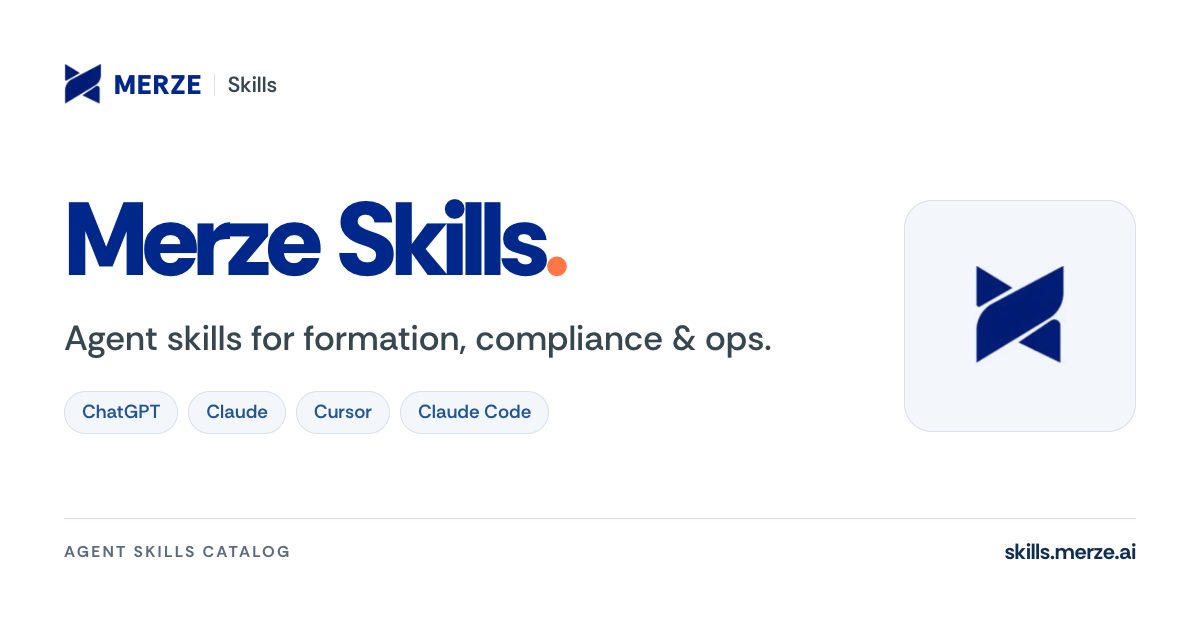
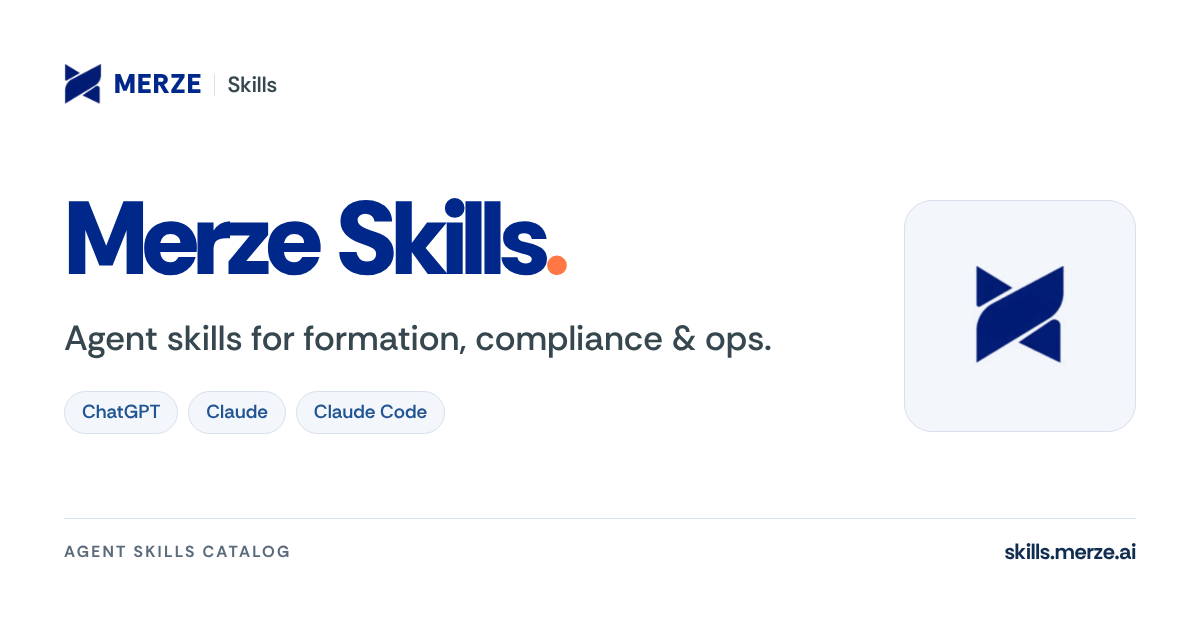
chore(site): remove Cursor from the public catalog
Drop Cursor from the home agent chips, the footer, the About agent list,
and the social card, and re-render the committed 1200x630 card. Internal
docs and the .cursor verify tooling are unchanged.

diff --git a/site/assets/social/merze-skills-v1.html b/site/assets/social/merze-skills-v1.html
@@ -254,7 +254,6 @@
         <ul class="chips" data-safe>
           <li class="chip">ChatGPT</li>
           <li class="chip">Claude</li>
-          <li class="chip">Cursor</li>
           <li class="chip">Claude Code</li>
         </ul>
       </div>
